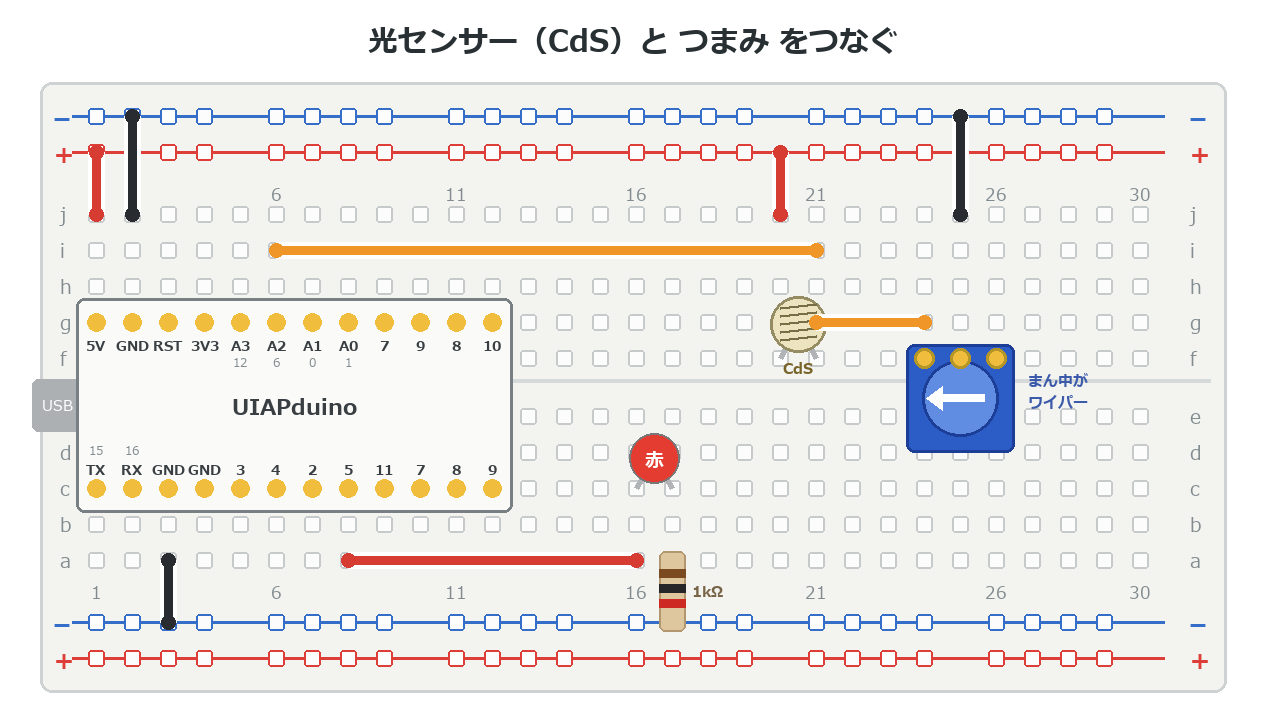
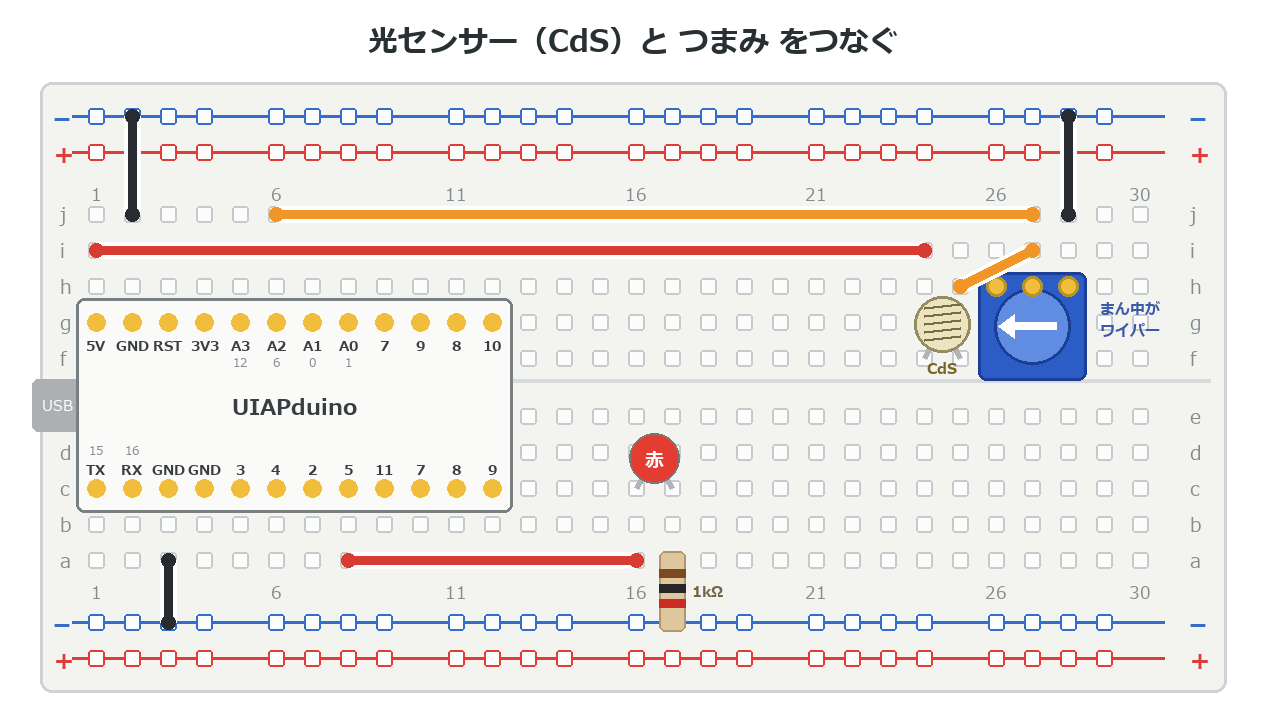
e1 のつまみを b4 と同じ 26〜28列にし、配線の組みかえを減らした
b4 の配線から続けると、A2 のオレンジ・28列の黒・ボードの GND・LED はそのまま。
5V の赤い線の右はしを 24列に移し、CdS（24・25列）と短い線（25→27列）を足すだけ。

つまみの使う足が「左はし＋まん中」から「まん中＋右はし」に変わったため、
10kΩ になる向きが逆になる。本文の回す向きを直し（反時計回りで 10kΩ）、
実機で確かめる項目として x8 に入れた。古くなっていた x8 の e1 の項目
（しきい値 300 付近でよいか）は、これに差しかえた。

diff --git a/docs/e1_light/index.html b/docs/e1_light/index.html
@@ -72,10 +72,10 @@
 CdS だけでは電圧にならない。**10kΩ のつまみ**と組にするよ。
 
 1. **5V** ── CdS ── **A2** ── つまみ ── **GND**
-2. まん中（CdS と つまみ のあいだ）が **A2**
-3. つまみは**まん中の足と、片はしの足**の2本だけ使う
+2. CdS と つまみ のあいだが **A2**
+3. つまみは**まん中と右はし**だけ使う（左はしは空き）
 
-> あとで**さかいめを決める**のに、このつまみを回すよ。
+> b4 から続けるなら、赤い線を **24列**へ移し、CdS と短い線を足すだけ。
 
 :::
 
@@ -90,7 +90,7 @@ CdS だけでは電圧にならない。**10kΩ のつまみ**と組にするよ
 `analogRead` は 0〜1023。**4 でわった 0〜255** を
 そのまま**待ち時間（ミリ秒）**にするよ。
 
-1. つまみを**時計回りに**回しきる（＝10kΩ）
+1. つまみを**反時計回りに**回しきる（＝10kΩ）
 2. 書きこんで、手を**丸めて**かぶせる
 
 > 明るいと 205、おおうと 37 ミリ秒くらい。
@@ -157,7 +157,7 @@ void loop() {
 さかいめは部屋ごとに変わる。**つまみで合わせよう**。
 
 1. 右のプログラムを書きこむ
-2. 明るいまま、**反時計回り**にゆっくり回す
+2. 明るいまま、**時計回り**にゆっくり回す
 3. LEDが光ったら**少しもどす**（ぎりぎり消える位置）
 4. 手でおおうと、**パッと光る**
 

diff --git a/docs/x8_mentor/index.html b/docs/x8_mentor/index.html
@@ -112,7 +112,7 @@
 
 - **e4** … `TRIG` を **9番**にしてある（実機テストは 5番で実施した）
 - **e2** … 温度センサーの校正（部屋の温度計と見くらべる）
-- **e1** … CdS の振れ幅（しきい値 300 付近でよいか）
+- **e1** … つまみを**反時計回り**に回しきると 10kΩ になるか
 - **b5** … `tone()` と `analogWrite` が同時に使えるか（タイマーを分けた場合）
 - **e2** … 温度センサーを逆にさしたときの挙動（資料に記載がない）
 - **e3** … 人感センサー AM312 のピンの向き（文字の面を手前に GND・OUT・VIN）と、`digitalRead` で読めるか

diff --git a/tools/fig_bb_cds.py b/tools/fig_bb_cds.py
@@ -8,7 +8,14 @@
   ・少し もどす            … 室内でぎりぎり消えるさかいめを作る
 
 の両方ができる。つまみは **まん中の足と、片はしの足**の2本だけ使う。
-長い線は i行、レールへの立ち上げは j行から。こうすると交差しない。
+
+**つまみの位置は b4 と同じ 26〜28列**（2026-10-24）。b4 の配線から続けると、
+  そのまま … A2 のオレンジ（6列 → 27列＝まん中）、28列の黒（→ −レール）、
+             ボードの GND の線、LED
+  変える   … 5V の赤い線の右はしを 26列 → 24列
+  足す     … CdS（24・25列）と、25列 → 27列 の短いオレンジ
+つまみの左はし（26列）は何にもつながない。使うのは まん中（27）と 右はし（28）。
+⚠ b4 以前の配置（左はしと まん中を使う）とは、10kΩ になる回す向きが逆になる。
 """
 import sys
 sys.path.insert(0, "tools")
@@ -21,16 +28,15 @@ im, d = new("光センサー（CdS）と つまみ をつなぐ")
 board(d)
 mcu(d)
 
-wire(d, (1, "j"), (1, "+t"), RED)          # ボードの5V  → ＋レール
-wire(d, (2, "j"), (2, "-t"), BLACK)        # ボードのGND → −レール
+wire(d, (2, "j"), (2, "-t"), BLACK)        # ボードのGND → −レール（b4 と同じ）
 
-# ＋レール ── CdS ── A2 ── つまみ ── −レール
-cds(d, 20, "f")                            # 足は 20列・21列
-wire(d, (20, "j"), (20, "+t"), RED)        # CdS の上がわ → ＋レール
-wire(d, (6, "i"), (21, "i"), ORANGE)       # まん中（21列）→ A2
-wire(d, (21, "g"), (24, "g"), ORANGE)      # まん中 → つまみの片はし
-vr(d, 24, "f")                             # 足は 24・25・26列（まん中が25）
-wire(d, (25, "j"), (25, "-t"), BLACK)      # まん中の足 → −レール
+# 5V ── CdS ── A2 ── つまみ（まん中〜右はし）── GND
+vr(d, 26, "h")                             # 足は 26・27・28列（まん中が27）。b4 と同じ場所
+cds(d, 24, "f")                            # 足は 24列・25列
+wire(d, (1, "i"), (24, "i"), RED)          # 5V → CdS の左の足（b4 の赤い線の右はしを移す）
+wire(d, (25, "h"), (27, "i"), ORANGE)      # CdS の右の足 → まん中（27列）
+wire(d, (6, "j"), (27, "j"), ORANGE)       # A2 → まん中（b4 と同じ線）
+wire(d, (28, "j"), (28, "-t"), BLACK)      # 右はし → −レール（b3・b4 と同じ線）
 
 # LED（基本編と同じ 16・17列）
 wire(d, (8, "a"), (16, "a"), RED)          # 5番 → LED

diff --git a/content/e1_light/index.md b/content/e1_light/index.md
@@ -58,10 +58,10 @@ wip: 写真まち
 CdS だけでは電圧にならない。**10kΩ のつまみ**と組にするよ。
 
 1. **5V** ── CdS ── **A2** ── つまみ ── **GND**
-2. まん中（CdS と つまみ のあいだ）が **A2**
-3. つまみは**まん中の足と、片はしの足**の2本だけ使う
+2. CdS と つまみ のあいだが **A2**
+3. つまみは**まん中と右はし**だけ使う（左はしは空き）
 
-> あとで**さかいめを決める**のに、このつまみを回すよ。
+> b4 から続けるなら、赤い線を **24列**へ移し、CdS と短い線を足すだけ。
 
 :::
 
@@ -76,7 +76,7 @@ CdS だけでは電圧にならない。**10kΩ のつまみ**と組にするよ
 `analogRead` は 0〜1023。**4 でわった 0〜255** を
 そのまま**待ち時間（ミリ秒）**にするよ。
 
-1. つまみを**時計回りに**回しきる（＝10kΩ）
+1. つまみを**反時計回りに**回しきる（＝10kΩ）
 2. 書きこんで、手を**丸めて**かぶせる
 
 > 明るいと 205、おおうと 37 ミリ秒くらい。
@@ -143,7 +143,7 @@ void loop() {
 さかいめは部屋ごとに変わる。**つまみで合わせよう**。
 
 1. 右のプログラムを書きこむ
-2. 明るいまま、**反時計回り**にゆっくり回す
+2. 明るいまま、**時計回り**にゆっくり回す
 3. LEDが光ったら**少しもどす**（ぎりぎり消える位置）
 4. 手でおおうと、**パッと光る**
 

diff --git a/CURRICULUM.md b/CURRICULUM.md
@@ -487,6 +487,18 @@ micro:bit（センサー内蔵）／Raspberry Pi（カメラ・画面）。
 図は `tools/fig_bb_cds.py`。長い線は i行、レールへの立ち上げは j行からにすると
 立ち上げが横の線をまたがないので交差が出ない。
 
+### e1 のつまみを b4 と同じ 26〜28列にした（2026-10-24）
+
+b4 からの配線変更を減らすため、つまみを b4 と同じ位置（h行・26〜28列）に移した。
+A2 のオレンジ（6列 → 27列＝まん中）、28列の黒（→ −レール）、ボードの GND、LED はそのまま。
+変えるのは 5V の赤い線の右はし（26列 → 24列）だけで、CdS（24・25列）と短い線（25列 → 27列）を足す。
+作図は `tools/fig_bb_cds.py`。
+
+⚠ **つまみの使う足が「左はし＋まん中」から「まん中＋右はし」に変わった**ので、
+**10kΩ になる回す向きが逆**になった。本文を「反時計回りに回しきる（＝10kΩ）」
+「明るいまま時計回りにゆっくり回す」に直した。回路からの推論なので、**実機で要確認**
+（x8 の「当日までに確かめること」に入れた）。
+
 ### e1 CdS の実測値と、しきい値を 300→500 に（2026-09-23）
 
 **実測**（固定抵抗 10kΩ・`5V ── CdS ── A2 ── 10kΩ ── GND`）
